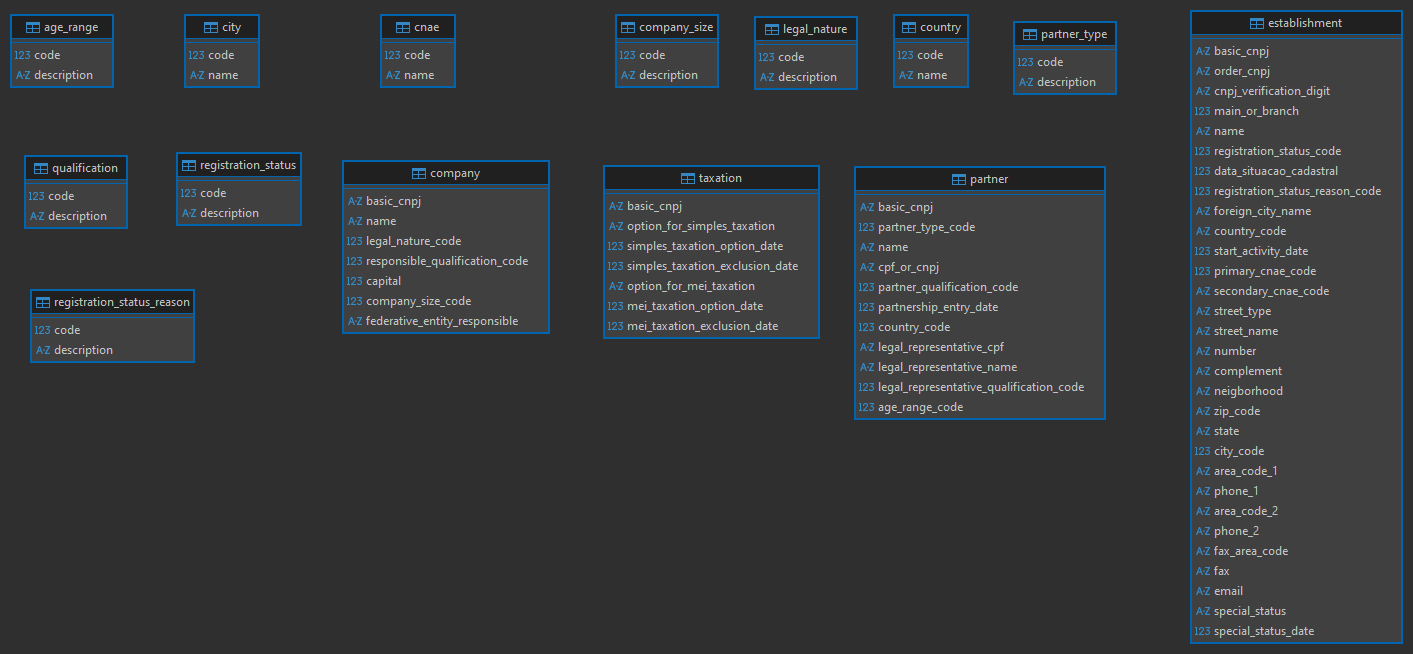
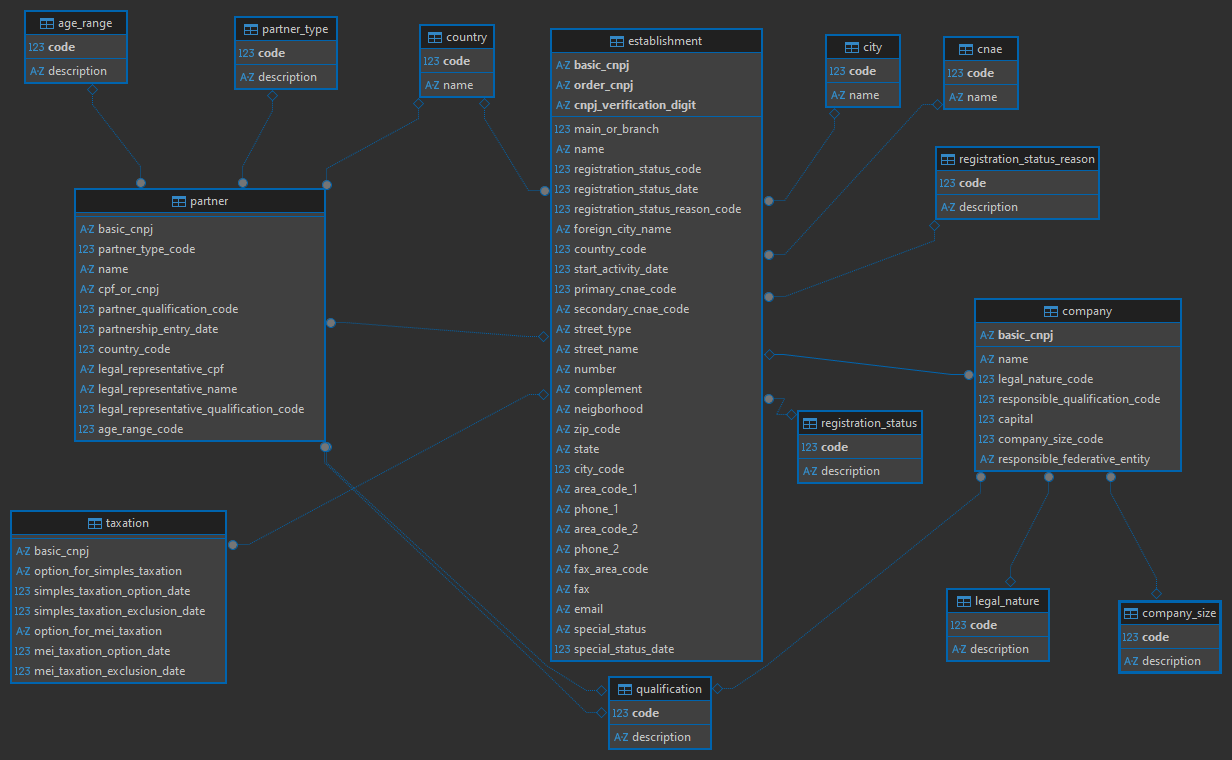
refactor/fix: Modificação readme, adição chaves primárias, modificação requeriments

diff --git a/src/main.py b/src/main.py
@@ -91,12 +91,14 @@ def main():
     conn = sqlite3.connect(DATABASE)
     cur = conn.cursor()
 
-    print("\n=== LIMPANDO TABELAS ===")
+    print("\n=== LIMPANDO E CRIANDO TABELAS COM CHAVES ===")
     cur.executescript("""
+    PRAGMA foreign_keys = ON;
+    
+    DROP TABLE IF EXISTS taxation;
+    DROP TABLE IF EXISTS partner;
     DROP TABLE IF EXISTS company;
     DROP TABLE IF EXISTS establishment;
-    DROP TABLE IF EXISTS partner;
-    DROP TABLE IF EXISTS taxation;
     DROP TABLE IF EXISTS cnae;
     DROP TABLE IF EXISTS registration_status_reason;
     DROP TABLE IF EXISTS city;
@@ -107,6 +109,144 @@ def main():
     DROP TABLE IF EXISTS registration_status;
     DROP TABLE IF EXISTS partner_type;
     DROP TABLE IF EXISTS age_range;
+
+    CREATE TABLE age_range (
+        code INTEGER PRIMARY KEY,
+        description TEXT
+    );
+
+    CREATE TABLE city (
+        code INTEGER PRIMARY KEY,
+        name TEXT
+    );
+
+    CREATE TABLE cnae (
+        code INTEGER PRIMARY KEY,
+        name TEXT
+    );
+
+    CREATE TABLE company_size (
+        code INTEGER PRIMARY KEY,
+        description TEXT
+    );
+
+    CREATE TABLE country (
+        code INTEGER PRIMARY KEY,
+        name TEXT
+    );
+
+    CREATE TABLE legal_nature (
+        code INTEGER PRIMARY KEY,
+        description TEXT
+    );
+
+    CREATE TABLE partner_type (
+        code INTEGER PRIMARY KEY,
+        description TEXT
+    );
+
+    CREATE TABLE qualification (
+        code INTEGER PRIMARY KEY,
+        description TEXT
+    );
+
+    CREATE TABLE registration_status (
+        code INTEGER PRIMARY KEY,
+        description TEXT
+    );
+
+    CREATE TABLE registration_status_reason (
+        code INTEGER PRIMARY KEY,
+        description TEXT
+    );
+
+    CREATE TABLE establishment (
+        basic_cnpj TEXT,
+        order_cnpj TEXT,
+        cnpj_verification_digit TEXT,
+        main_or_branch INTEGER,
+        name TEXT,
+        registration_status_code INTEGER,
+        registration_status_date INTEGER,
+        registration_status_reason_code INTEGER,
+        foreign_city_name TEXT,
+        country_code INTEGER,
+        start_activity_date INTEGER,
+        primary_cnae_code INTEGER,
+        secondary_cnae_code TEXT,
+        street_type TEXT,
+        street_name TEXT,
+        number TEXT,
+        complement TEXT,
+        neigborhood TEXT,
+        zip_code TEXT,
+        state TEXT,
+        city_code INTEGER,
+        area_code_1 TEXT,
+        phone_1 TEXT,
+        area_code_2 TEXT,
+        phone_2 TEXT,
+        fax_area_code TEXT,
+        fax TEXT,
+        email TEXT,
+        special_status TEXT,
+        special_status_date INTEGER,
+
+        PRIMARY KEY (basic_cnpj, order_cnpj, cnpj_verification_digit),
+        FOREIGN KEY (primary_cnae_code) REFERENCES cnae(code),
+        FOREIGN KEY (city_code) REFERENCES city(code),
+        FOREIGN KEY (country_code) REFERENCES country(code),
+        FOREIGN KEY (registration_status_code) REFERENCES registration_status(code),
+        FOREIGN KEY (registration_status_reason_code) REFERENCES registration_status_reason(code)
+    );
+
+    CREATE TABLE company (
+        basic_cnpj TEXT PRIMARY KEY,
+        name TEXT,
+        legal_nature_code INTEGER,
+        responsible_qualification_code INTEGER,
+        capital FLOAT,
+        company_size_code INTEGER,
+        responsible_federative_entity TEXT,
+
+        FOREIGN KEY (basic_cnpj) REFERENCES establishment(basic_cnpj),
+        FOREIGN KEY (legal_nature_code) REFERENCES legal_nature(code),
+        FOREIGN KEY (responsible_qualification_code) REFERENCES qualification(code),
+        FOREIGN KEY (company_size_code) REFERENCES company_size(code)
+    );
+
+    CREATE TABLE partner (
+        basic_cnpj TEXT,
+        partner_type_code INTEGER,
+        name TEXT,
+        cpf_or_cnpj TEXT,
+        partner_qualification_code INTEGER,
+        partnership_entry_date INTEGER,
+        country_code INTEGER,
+        legal_representative_cpf TEXT,
+        legal_representative_name TEXT,
+        legal_representative_qualification_code INTEGER,
+        age_range_code INTEGER,
+
+        FOREIGN KEY (basic_cnpj) REFERENCES establishment(basic_cnpj),
+        FOREIGN KEY (partner_type_code) REFERENCES partner_type(code),
+        FOREIGN KEY (partner_qualification_code) REFERENCES qualification(code),
+        FOREIGN KEY (legal_representative_qualification_code) REFERENCES qualification(code),
+        FOREIGN KEY (country_code) REFERENCES country(code),
+        FOREIGN KEY (age_range_code) REFERENCES age_range(code)
+    );
+
+    CREATE TABLE taxation (
+        basic_cnpj TEXT,
+        option_for_simples_taxation TEXT,
+        simples_taxation_option_date INTEGER,
+        simples_taxation_exclusion_date INTEGER,
+        option_for_mei_taxation TEXT,
+        mei_taxation_option_date INTEGER,
+        mei_taxation_exclusion_date INTEGER,
+
+        FOREIGN KEY (basic_cnpj) REFERENCES establishment(basic_cnpj)
+    );
     """)
     conn.commit()
 

diff --git a/src/load/estabelecimento.py b/src/load/estabelecimento.py
@@ -71,7 +71,8 @@ def carregar_estabelecimento(arquivos, pasta, engine):
                 'special_status_date'
             ]
 
-            to_sql(df, name='establishment', con=engine, if_exists='append', index=False)
+            df.set_index('basic_cnpj', inplace=True)
+            to_sql(df, name='establishment', con=engine, if_exists='append', index=True)
             print('File ' + arquivos[e] + ' / ' + str(part) + ' successfully inserted into the database!')
             
             if len(df) == NROWS:

diff --git a/src/load/simples.py b/src/load/simples.py
@@ -13,9 +13,7 @@ def carregar_simples(arquivos_simples, extracted_files, engine):
 ################################
 """)
 
-    with engine.connect() as conn:
-        conn.execute(text('DROP TABLE IF EXISTS "taxation";'))
-        conn.commit()
+    # O DROP TABLE foi movido para o main.py para permitir a criação prévia com chaves primárias e estrangeiras.
 
     simples_insert_start = time.time()
 

diff --git a/README.md b/README.md
@@ -6,7 +6,7 @@ A Receita Federal do Brasil disponibiliza bases com os dados públicos do cadast
 
 De forma geral, nelas constam as mesmas informações que conseguimos ver no cartão do CNPJ, quando fazemos uma consulta individual, acrescidas de outros dados de Simples Nacional, sócios e etc. Análises muito ricas podem sair desses dados, desde econômicas, mercadológicas até investigações.
 
-Nesse repositório consta um processo de ETL para **i)** baixar os arquivos; **ii)** descompactar; **iii)** ler, tratar e **iv)** inserir num banco de dados relacional PostgreSQL.
+Nesse repositório consta um processo de ETL para **i)** baixar os arquivos; **ii)** descompactar; **iii)** ler, tratar e **iv)** inserir num banco de dados relacional SQLite.
 
 ---------------------
 
@@ -24,43 +24,39 @@ Para selecionar o idioma das tabelas que serão extraídas, deve-se trocar de br
 ---------------------
 
 ### How to use:
-1. Com o Postgres instalado, inicie a instância do servidor (pode ser local) e crie o banco de dados conforme o arquivo `banco_de_dados.sql`.
-
-2. Crie um arquivo `.env` no diretório `code`, conforme as variáveis de ambiente do seu ambiente de trabalho (localhost). Utilize como referência o arquivo `.env_template`. Você pode também, por exemplo, renomear o arquivo de `.env_template` para apenas `.env` e então utilizá-lo:
-   - `OUTPUT_FILES_PATH`: diretório de destino para o donwload dos arquivos
-   - `EXTRACTED_FILES_PATH`: diretório de destino para a extração dos arquivos .zip
-   - `DB_USER`: usuário do banco de dados criado pelo arquivo `banco_de_dados.sql`
-   - `DB_PASSWORD`: senha do usuário do BD
-   - `DB_HOST`: host da conexão com o BD
-   - `DB_PORT`: porta da conexão com o BD
-   - `DB_NAME`: nome da base de dados na instância (`Dados_RFB` - conforme arquivo `banco_de_dados.sql`)
-
-3. Instale as bibliotecas necessárias, disponíveis em `requirements.txt`:
-```
+1. Instale as bibliotecas necessárias, disponíveis em `requirements.txt`:
+```bash
 pip install -r requirements.txt
 ```
 
-4. Execute o arquivo `ETL_coletar_dados_e_gravar_BD.py` e aguarde a finalização do processo.
+2. Execute o arquivo `src/main.py` a partir da raiz do projeto e siga as instruções para iniciar o processo de extração, carga ou processamento completo:
+```bash
+python src/main.py
+```
+   - O projeto utiliza SQLite. O banco de dados (`cnpj_dados.db`) e as tabelas são criados automaticamente pela aplicação.
    - Os arquivos são grandes. Dependendo da infraestrutura isso deve levar muitas horas para conclusão.
-   - Arquivos de 08/05/2021: `4,68 GB` compactados e `17,1 GB` descompactados.
 
 ---------------------
 
 ### Tabelas geradas:
 - Para maiores informações, consulte o [layout](https://www.gov.br/receitafederal/pt-br/assuntos/orientacao-tributaria/cadastros/consultas/arquivos/NOVOLAYOUTDOSDADOSABERTOSDOCNPJ.pdf).
-  - `empresa`: dados cadastrais da empresa em nível de matriz
-  - `estabelecimento`: dados analíticos da empresa por unidade / estabelecimento (telefones, endereço, filial, etc)
-  - `socios`: dados cadastrais dos sócios das empresas
-  - `simples`: dados de MEI e Simples Nacional
+  - `company`: dados cadastrais da empresa em nível de matriz
+  - `establishment`: dados analíticos da empresa por unidade / estabelecimento (telefones, endereço, filial, etc)
+  - `partner`: dados cadastrais dos sócios das empresas
+  - `taxation`: dados de MEI e Simples Nacional
   - `cnae`: código e descrição dos CNAEs
-  - `quals`: tabela de qualificação das pessoas físicas - sócios, responsável e representante legal.
-  - `natju`: tabela de naturezas jurídicas - código e descrição.
-  - `moti`: tabela de motivos da situação cadastral - código e descrição.
-  - `pais`: tabela de países - código e descrição.
-  - `munic`: tabela de municípios - código e descrição.
+  - `qualification`: tabela de qualificação das pessoas físicas - sócios, responsável e representante legal.
+  - `legal_nature`: tabela de naturezas jurídicas - código e descrição.
+  - `registration_status_reason`: tabela de motivos da situação cadastral - código e descrição.
+  - `country`: tabela de países - código e descrição.
+  - `city`: tabela de municípios - código e descrição.
+  - `company_size`: tabela de porte da empresa.
+  - `registration_status`: tabela de situação cadastral.
+  - `partner_type`: tabela de identificador de sócio.
+  - `age_range`: tabela de faixas etárias.
 
 
-- Pelo volume de dados, as tabelas  `empresa`, `estabelecimento`, `socios` e `simples` possuem índices para a coluna `cnpj_basico`, que é a principal chave de ligação entre elas.
+- Pelo volume de dados, as tabelas  `company`, `establishment`, `partner` e `taxation` possuem índices para a coluna `basic_cnpj`, que é a principal chave de ligação entre elas.
 
 ### Modelo de Entidade Relacionamento:
 ![alt text](https://github.com/aphonsoar/Receita_Federal_do_Brasil_-_Dados_Publicos_CNPJ/blob/master/Dados_RFB_ERD.png)
